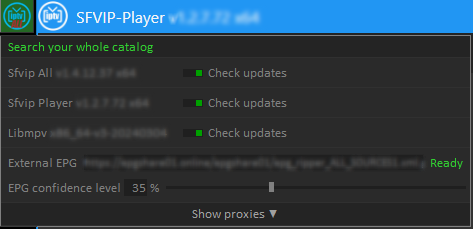
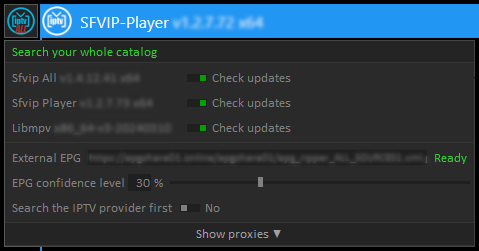
v1.4.12.41 beta 2

diff --git a/src/sfvip/ui/infos.py b/src/sfvip/ui/infos.py
@@ -37,7 +37,7 @@ class _InfoTheme:
     bg_interact = "#1F1F1F"
     bg_headers = "#242424"
     bg_rows = "#2A2A2A"
-    separator = "#303030"
+    separator = "#353535"
     border = Border(
         bg="#808080",
         size=1,
@@ -253,7 +253,7 @@ def _get_epg_prefer_label() -> Style:
 
 
 def _epg_url_tooltip() -> Style:
-    return _InfoStyle.app(LOC.EPGUrlTip).grey.no_truncate
+    return _InfoStyle.app(LOC.EPGUrlTip % ("xml", "xml.gz")).grey.no_truncate
 
 
 def _epg_libmpv_tooltip() -> Style:
@@ -263,6 +263,14 @@ def _epg_libmpv_tooltip() -> Style:
 def _epg_prefer_tooltip() -> Style:
     msg = "".join((f"\n\n • {text}" for text in (LOC.EPGPreferYes, LOC.EPGPreferNo)))
     return _InfoStyle.tooltip(f"{LOC.EPGPrefer}:{msg}")
+
+
+def _proxy_tooltip(app_info: AppInfo) -> Style:
+    return _InfoStyle.app(LOC.ProxyTip % app_info.name).grey.no_truncate
+
+
+def _user_proxy_tooltip() -> Style:
+    return _InfoStyle.app(LOC.UserProxyTip).grey.no_truncate
 
 
 def _player_changelog_tooltip() -> Style:
@@ -326,6 +334,9 @@ class _ProxiesWindow(StickyWindow):
         self.separator = tk.Frame(self._frame, bg=_InfoTheme.separator)
         self._proxies.set_headers(_get_infos_headers(app_info.name))
         self._proxies_button.bind("<Button-1>", self.show_proxies)
+        # tooltips
+        set_tooltip(_proxy_tooltip(app_info), self._proxies.headers[2])
+        set_tooltip(_user_proxy_tooltip(), self._proxies.headers[4])
 
     def show_proxies(self, _) -> None:
         proxies_shown = self.config.App.show_proxies = not self.config.App.show_proxies
@@ -409,19 +420,17 @@ class InfosWindow(_ProxiesWindow):
         self._app_update = CheckBox(
             frame, bg=_InfoTheme.bg_rows, **_InfoTheme.checkbox, **_get_auto_update().to_tk
         )
-        separator2 = tk.Frame(frame, bg=_InfoTheme.separator)
         self._player_version = tk.Label(frame, bg=_InfoTheme.bg_rows, **_get_player_version().to_tk)
         self._player_update = CheckBox(
             frame, bg=_InfoTheme.bg_rows, **_InfoTheme.checkbox, **_get_auto_update().to_tk
         )
         self._player_button = Button(frame, **_InfoTheme.button)  # type: ignore
-        separator3 = tk.Frame(frame, bg=_InfoTheme.separator)
         self._libmpv_version = tk.Label(frame, bg=_InfoTheme.bg_rows, **_get_libmpv_version().to_tk)
         self._libmpv_update = CheckBox(
             frame, bg=_InfoTheme.bg_rows, **_InfoTheme.checkbox, **_get_auto_update().to_tk
         )
         self._libmpv_button = Button(frame, **_InfoTheme.button)  # type: ignore
-        separator4 = tk.Frame(frame, bg=_InfoTheme.separator)
+        separator2 = tk.Frame(frame, bg=_InfoTheme.separator)
         epg_frame = tk.Frame(frame, bg=_InfoTheme.bg_rows)
         epg_label = tk.Label(epg_frame, bg=_InfoTheme.bg_rows, **_epg().to_tk)
         self._epg_url = tk.Entry(
@@ -460,7 +469,7 @@ class InfosWindow(_ProxiesWindow):
         self._epg_prefer_check = CheckBox(
             epg_prefer_frame, bg=_InfoTheme.bg_rows, **_InfoTheme.checkbox, **_get_epg_prefer_update().to_tk
         )
-        separator5 = tk.Frame(frame, bg=_InfoTheme.separator)
+        separator3 = tk.Frame(frame, bg=_InfoTheme.separator)
         # layout
         pad = _InfoTheme.pad
         button_pad = _InfoTheme.button_pad
@@ -475,21 +484,17 @@ class InfosWindow(_ProxiesWindow):
         self._app_button.grid(row=row, column=2, padx=button_pad, pady=button_pad, sticky=tk.EW)
         self._app_button.grid_remove()
         row += 1
-        separator2.grid(row=row, columnspan=3, sticky=tk.EW)
-        row += 1
-        self._player_version.grid(row=row, column=0, padx=pad, pady=pad, sticky=tk.W)
+        self._player_version.grid(row=row, column=0, padx=pad, pady=0, sticky=tk.W)
         self._player_update.grid(row=row, column=1, padx=pad, sticky=tk.EW)
         self._player_button.grid(row=row, column=2, padx=button_pad, pady=button_pad, sticky=tk.EW)
         self._player_button.grid_remove()
-        row += 1
-        separator3.grid(row=row, columnspan=3, sticky=tk.EW)
         row += 1
         self._libmpv_version.grid(row=row, column=0, padx=pad, pady=pad, sticky=tk.W)
         self._libmpv_update.grid(row=row, column=1, padx=pad, sticky=tk.EW)
         self._libmpv_button.grid(row=row, column=2, padx=button_pad, pady=button_pad, sticky=tk.EW)
         self._libmpv_button.grid_remove()
         row += 1
-        separator4.grid(row=row, columnspan=3, sticky=tk.EW)
+        separator2.grid(row=row, columnspan=3, sticky=tk.EW)
         row += 1
         epg_frame.grid(row=row, columnspan=3, padx=pad, pady=pad, sticky=tk.NSEW)
         epg_label.pack(side=tk.LEFT)
@@ -506,7 +511,7 @@ class InfosWindow(_ProxiesWindow):
         epg_prefer_label.pack(side=tk.LEFT)
         self._epg_prefer_check.pack(side=tk.LEFT)
         row += 1
-        separator5.grid(row=row, columnspan=3, sticky=tk.EW)
+        separator3.grid(row=row, columnspan=3, sticky=tk.EW)
         row += 1
         super()._layout(row=row)
         frame.columnconfigure(2, weight=1)

diff --git a/src/sfvip/ui/widgets.py b/src/sfvip/ui/widgets.py
@@ -172,7 +172,7 @@ class ListView(tk.Frame):
     Note: set_headers should be called before set_rows
     """
 
-    # pylint: disable=too-many-arguments
+    # pylint: disable=too-many-arguments, too-many-instance-attributes
     def __init__(
         self,
         master: tk.BaseWidget,
@@ -200,6 +200,7 @@ class ListView(tk.Frame):
         self._bg_separator = bg_separator
         self._pad = pad
         self._widths = []
+        self._headers = []
 
     @staticmethod
     def _clear(what: tk.BaseWidget) -> None:
@@ -215,7 +216,12 @@ class ListView(tk.Frame):
             label = tk.Label(self._frame_headers, bg=self._bg_headers, **text.to_tk)
             label.grid(row=0, column=column, ipadx=pad, ipady=pad, sticky=tk.NSEW)
             self._widths[column] = max(label.winfo_reqwidth() + pad * 2, self._widths[column])
+            self._headers.append(label)
         self.set_column_widths()
+
+    @property
+    def headers(self) -> list[tk.Label]:
+        return self._headers
 
     def set_rows(self, rows: Sequence[Collection[Style]]) -> None:
         self._clear(self._frame_rows)
@@ -225,7 +231,7 @@ class ListView(tk.Frame):
             assert len(row_content) == n_column
             for column, text in enumerate(row_content):
                 label = tk.Label(self._frame_rows, bg=self._bg_rows, **text.to_tk)
-                label.grid(row=row * 2, column=column, ipadx=pad, ipady=pad, sticky=tk.NSEW)
+                label.grid(row=row * 2, column=column, ipadx=pad, ipady=0, sticky=tk.NSEW)
                 self._widths[column] = max(label.winfo_reqwidth() + pad * 2, self._widths[column])
                 # row separator
                 if row != len(rows) - 1:

diff --git a/translations/loc/texts.py b/translations/loc/texts.py
@@ -66,11 +66,16 @@ class Texts:
     No: str = "No"
     EPGPreferYes: str = "Yes: Search the IPTV provider EPG first. Use the external EPG only when it fails."
     EPGPreferNo: str = "No: Search the external EPG first. Use the IPTV provider EPG only when it fails."
-    EPGUrlTip: str = "Enter the URL of the external EPG, it should end up with 'xml' or 'xml.gz'"
+    EPGUrlTip: str = "Enter the URL of the external EPG, it should end up with '%s' or '%s'"
     LibmpvTip: str = (
-        "Libmpv decodes & renders audio and video."
-        "Enable the update to get the last version optimized for your computer."
+        "Libmpv decodes & renders audio and video. "
+        "Enable the updates to get the last version optimized for your computer."
     )
+    ProxyTip: str = (
+        "%s uses a local proxy to intercept all requests to the IPTV provider "
+        "and inject the 'all' categories and the external EPG"
+    )
+    UserProxyTip: str = "Actual user proxy if it exists"
 
     def as_dict(self) -> dict[str, str]:
         return dataclasses.asdict(self)

diff --git a/README.md b/README.md
@@ -25,21 +25,20 @@ _On **old systems** you might need to install [**vc redist**](https://learn.micr
 
 # Settings
 Hover your mouse over the ***Sfvip All*** logo:  
-<kbd><img src="resources/readme/logo_arrow.png"></kbd>  
+<kbd><img src="resources/readme/arrow.png"></kbd>  
 
 To open the settings:  
 <kbd><img src="resources/readme/settings.png"></kbd>  
 
-Logo color & pulse meaning:  
+# Logo
 Color & pulse | Meaning
 :--- | :---
 <kbd><img src="resources/readme/logo_green.png" width="25"></kbd> <sub>Green slow pulse | <sub>Everything is fine
 <kbd><img src="resources/readme/logo_red.png" width="25"></kbd>  <sub>Red quick pulse | <sub>_Sfvip All_ needs your attention
 
 # Logs
-The logs go **in pairs**: one for each process (***main*** & ***mitmproxy***).  
+The logs go **in pairs**, one for each process (***main*** & ***mitmproxy***).  
 You'll find them in the app folder:  
-
 <kbd><img src="resources/readme/logs.png"></kbd>  
 
 # Build

diff --git a/resources/README_template.md b/resources/README_template.md
@@ -25,21 +25,20 @@ _On **old systems** you might need to install [**vc redist**](https://learn.micr
 
 # Settings
 Hover your mouse over the ***{name}*** logo:  
-<kbd><img src="resources/readme/logo_arrow.png"></kbd>  
+<kbd><img src="resources/readme/arrow.png"></kbd>  
 
 To open the settings:  
 <kbd><img src="resources/readme/settings.png"></kbd>  
 
-Logo color & pulse meaning:  
+# Logo
 Color & pulse | Meaning
 :--- | :---
 <kbd><img src="resources/readme/logo_green.png" width="25"></kbd> <sub>Green slow pulse | <sub>Everything is fine
 <kbd><img src="resources/readme/logo_red.png" width="25"></kbd>  <sub>Red quick pulse | <sub>_{name}_ needs your attention
 
 # Logs
-The logs go **in pairs**: one for each process (***main*** & ***mitmproxy***).  
+The logs go **in pairs**, one for each process (***main*** & ***mitmproxy***).  
 You'll find them in the app folder:  
-
 <kbd><img src="resources/readme/logs.png"></kbd>  
 
 # Build
